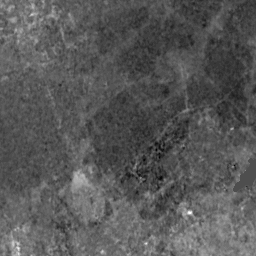
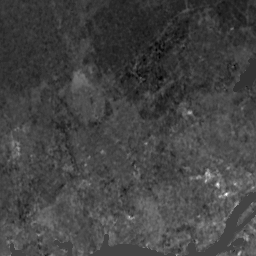
fix blendmapping

diff --git a/src/processSRTM.py b/src/processSRTM.py
@@ -15,7 +15,7 @@ SRTM4 = "D:\\Documents\\School\\2019-20\\ISEF 2020\\SRTM\\n51_e005_1arc_v3.tif"
 
 a = TerrainGrid((SRTM3), (1,1), 0)
 a.show(-5, 50)
-a.arrayValues = a.arrayValues[0:256, 644:900]
+a.arrayValues = a.arrayValues[100:356, 644:900]
 water = ma.masked_not_equal(a.arrayValues, 1).astype('uint8') + np.ones(a.arrayValues.shape)
 ret, thresh = cv.threshold(water, 0, 1, cv.THRESH_BINARY_INV)
 plt.imshow(thresh)
@@ -46,13 +46,7 @@ plt.show()
 plt.imshow(a.arrayValues, cmap = 'gist_gray')
 plt.show()
 
+
+
+a.arrayValues = gaussian_filter(a.arrayValues, sigma = 3.8)
 plt.imsave('heightmap.png', a.arrayValues, cmap = 'gist_gray')
-
-'''
-a.arrayValues = gaussian_filter(a.arrayValues, sigma = 3.8) * 0.5
-a.arrayValues = a.arrayValues[0:1024, 0:1024]
-#a.viewer_3d('viridis', -5, 30)
-
-plt.imshow(a.arrayValues, cmap = 'gist_gray')
-plt.show()
-'''

diff --git a/Terrain/src/engineTester/MainGameLoop.java b/Terrain/src/engineTester/MainGameLoop.java
@@ -114,13 +114,13 @@ public class MainGameLoop {
         	
         }
 
-        Entity entity = new Entity(staticModels.get(0), new Vector3f(1525,-10,-1000),90,0,0,7);
-        Entity entity2 = new Entity(staticModels.get(1), new Vector3f(2151, -10, -1921), 90, 0, 0, 7);
+        Entity entity = new Entity(staticModels.get(0), new Vector3f(1525,-100,-1000),90,0,0,7);
+        Entity entity2 = new Entity(staticModels.get(1), new Vector3f(2151, -100, -1921), 90, 0, 0, 7);
         
         entities.add(entity);
         entities.add(entity2);
         
-        Camera camera = new Camera(1900);
+        Camera camera = new Camera(5000);
         
 
         Light light = new Light(new Vector3f(camera.getPosition().x,10500,9000), new Vector3f(1,1,1), 1900);

diff --git a/Terrain/src/terrain/Terrain.java b/Terrain/src/terrain/Terrain.java
@@ -14,8 +14,8 @@ import textures.TerrainTexturePack;
 
 public class Terrain {
 	
-	public static final float SIZE = 30720;
-	private static final float MAX_HEIGHT = 200;
+	public static final float SIZE = 7680;
+	private static final float MAX_HEIGHT = 50;
 	private static final float MAX_PIXEL_COLOUR = 256*256*256;
 	
 	
